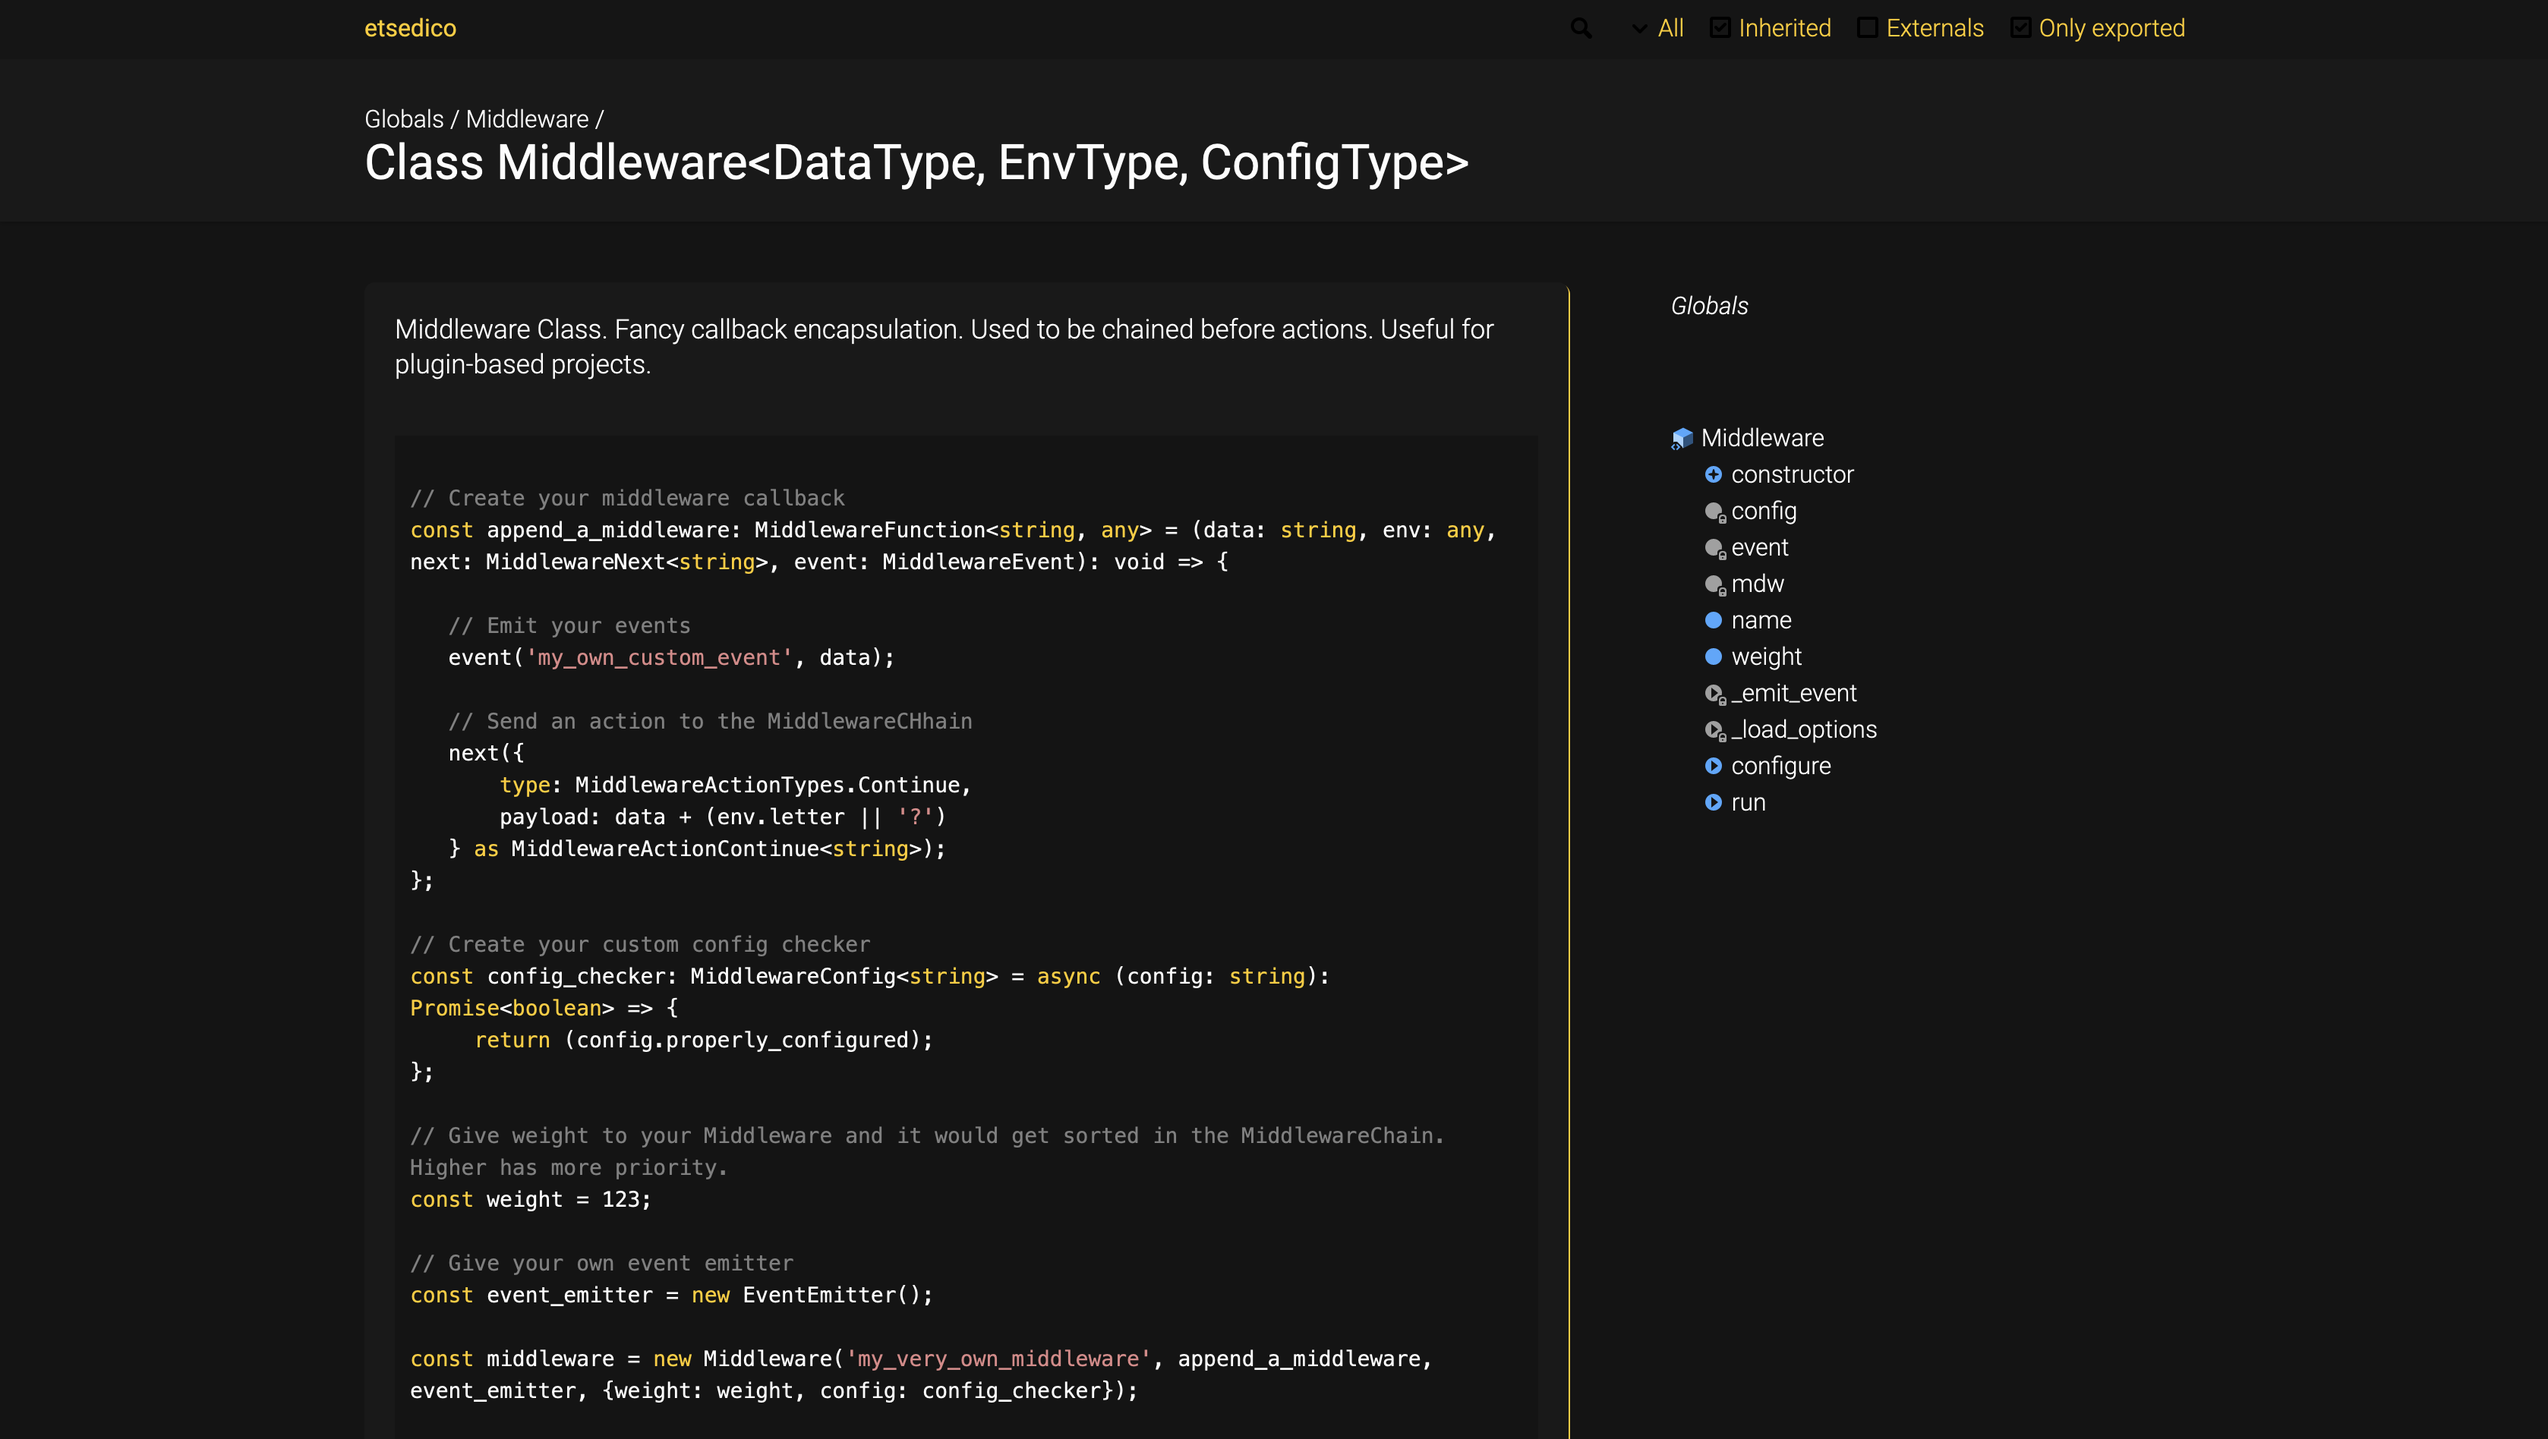
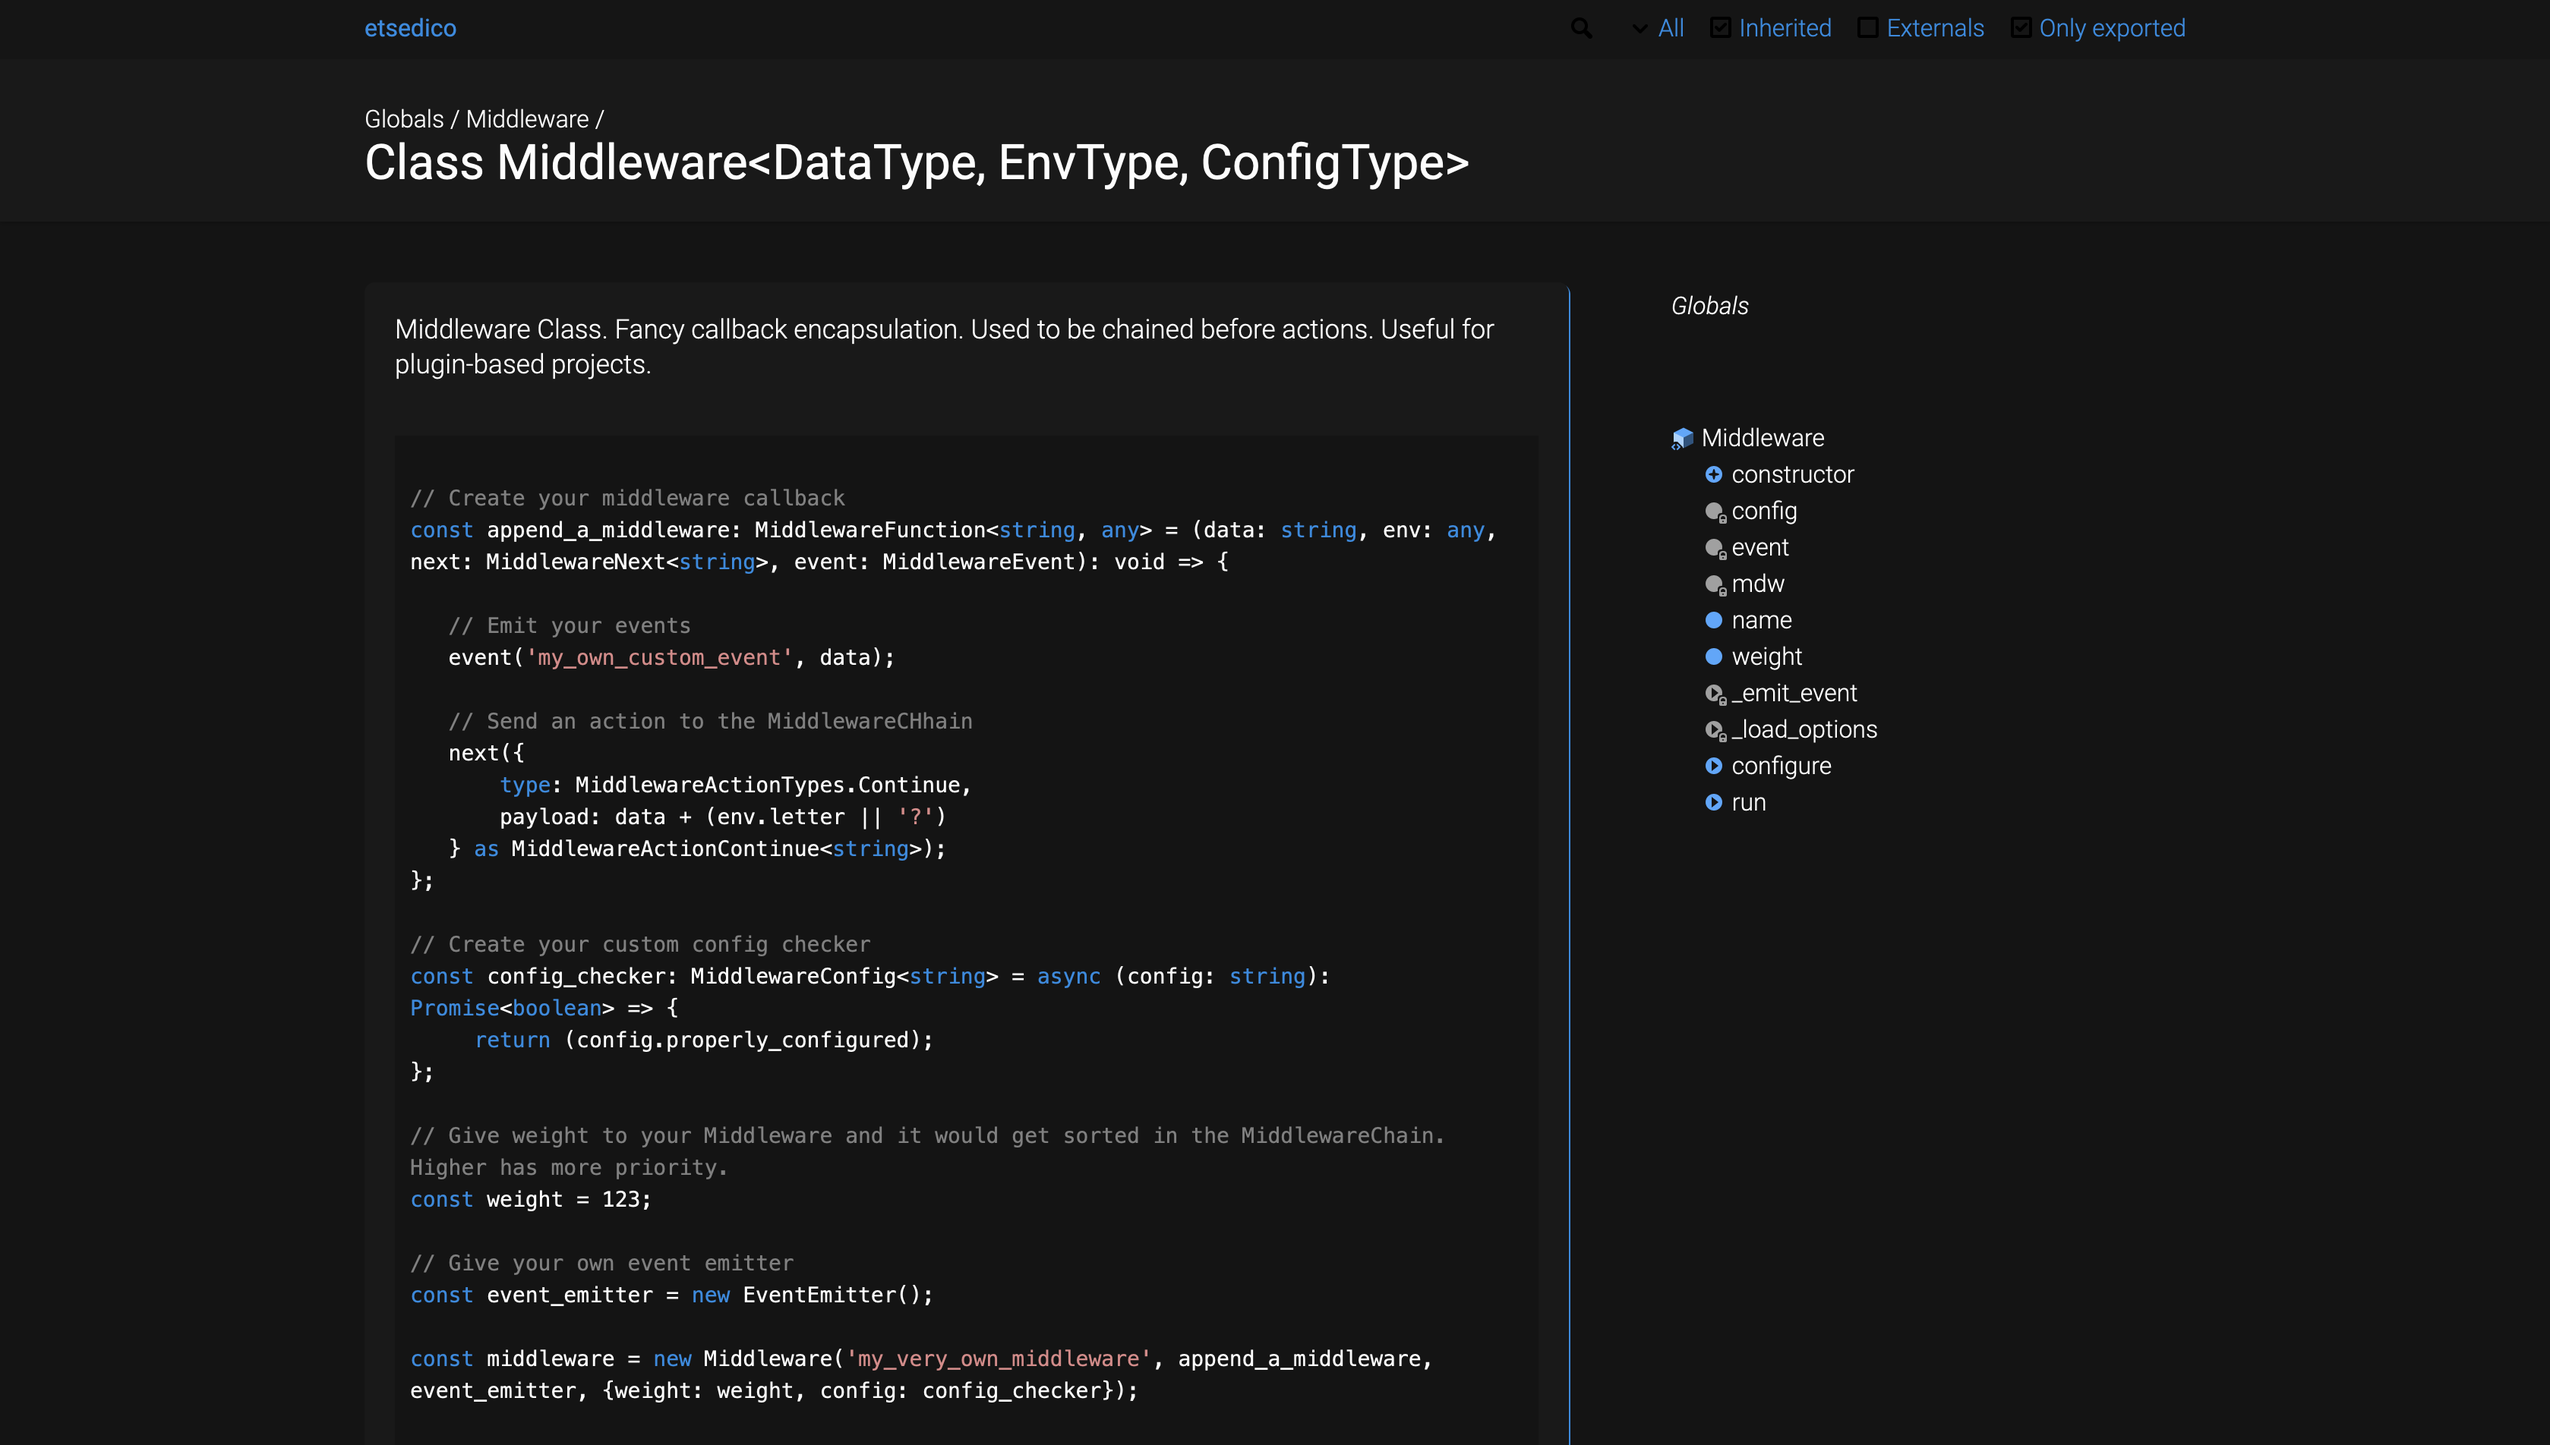
Vortex color variant

diff --git a/src/default/assets/css/_constants.sass b/src/default/assets/css/_constants.sass
@@ -8,7 +8,7 @@ $FONT_SIZE_MONO: 14px
 
 $LINE_HEIGHT: 1.333em
 
-$THEME_COLOR: #FFCC00
+$THEME_COLOR: #188ae2
 
 // Colors
 //

diff --git a/README.md b/README.md
@@ -1,4 +1,4 @@
-# Documentation Theme for Thunder
+# Documentation Theme for Vortex
 
 This is a plugin made to be used with TypeDoc.
 
